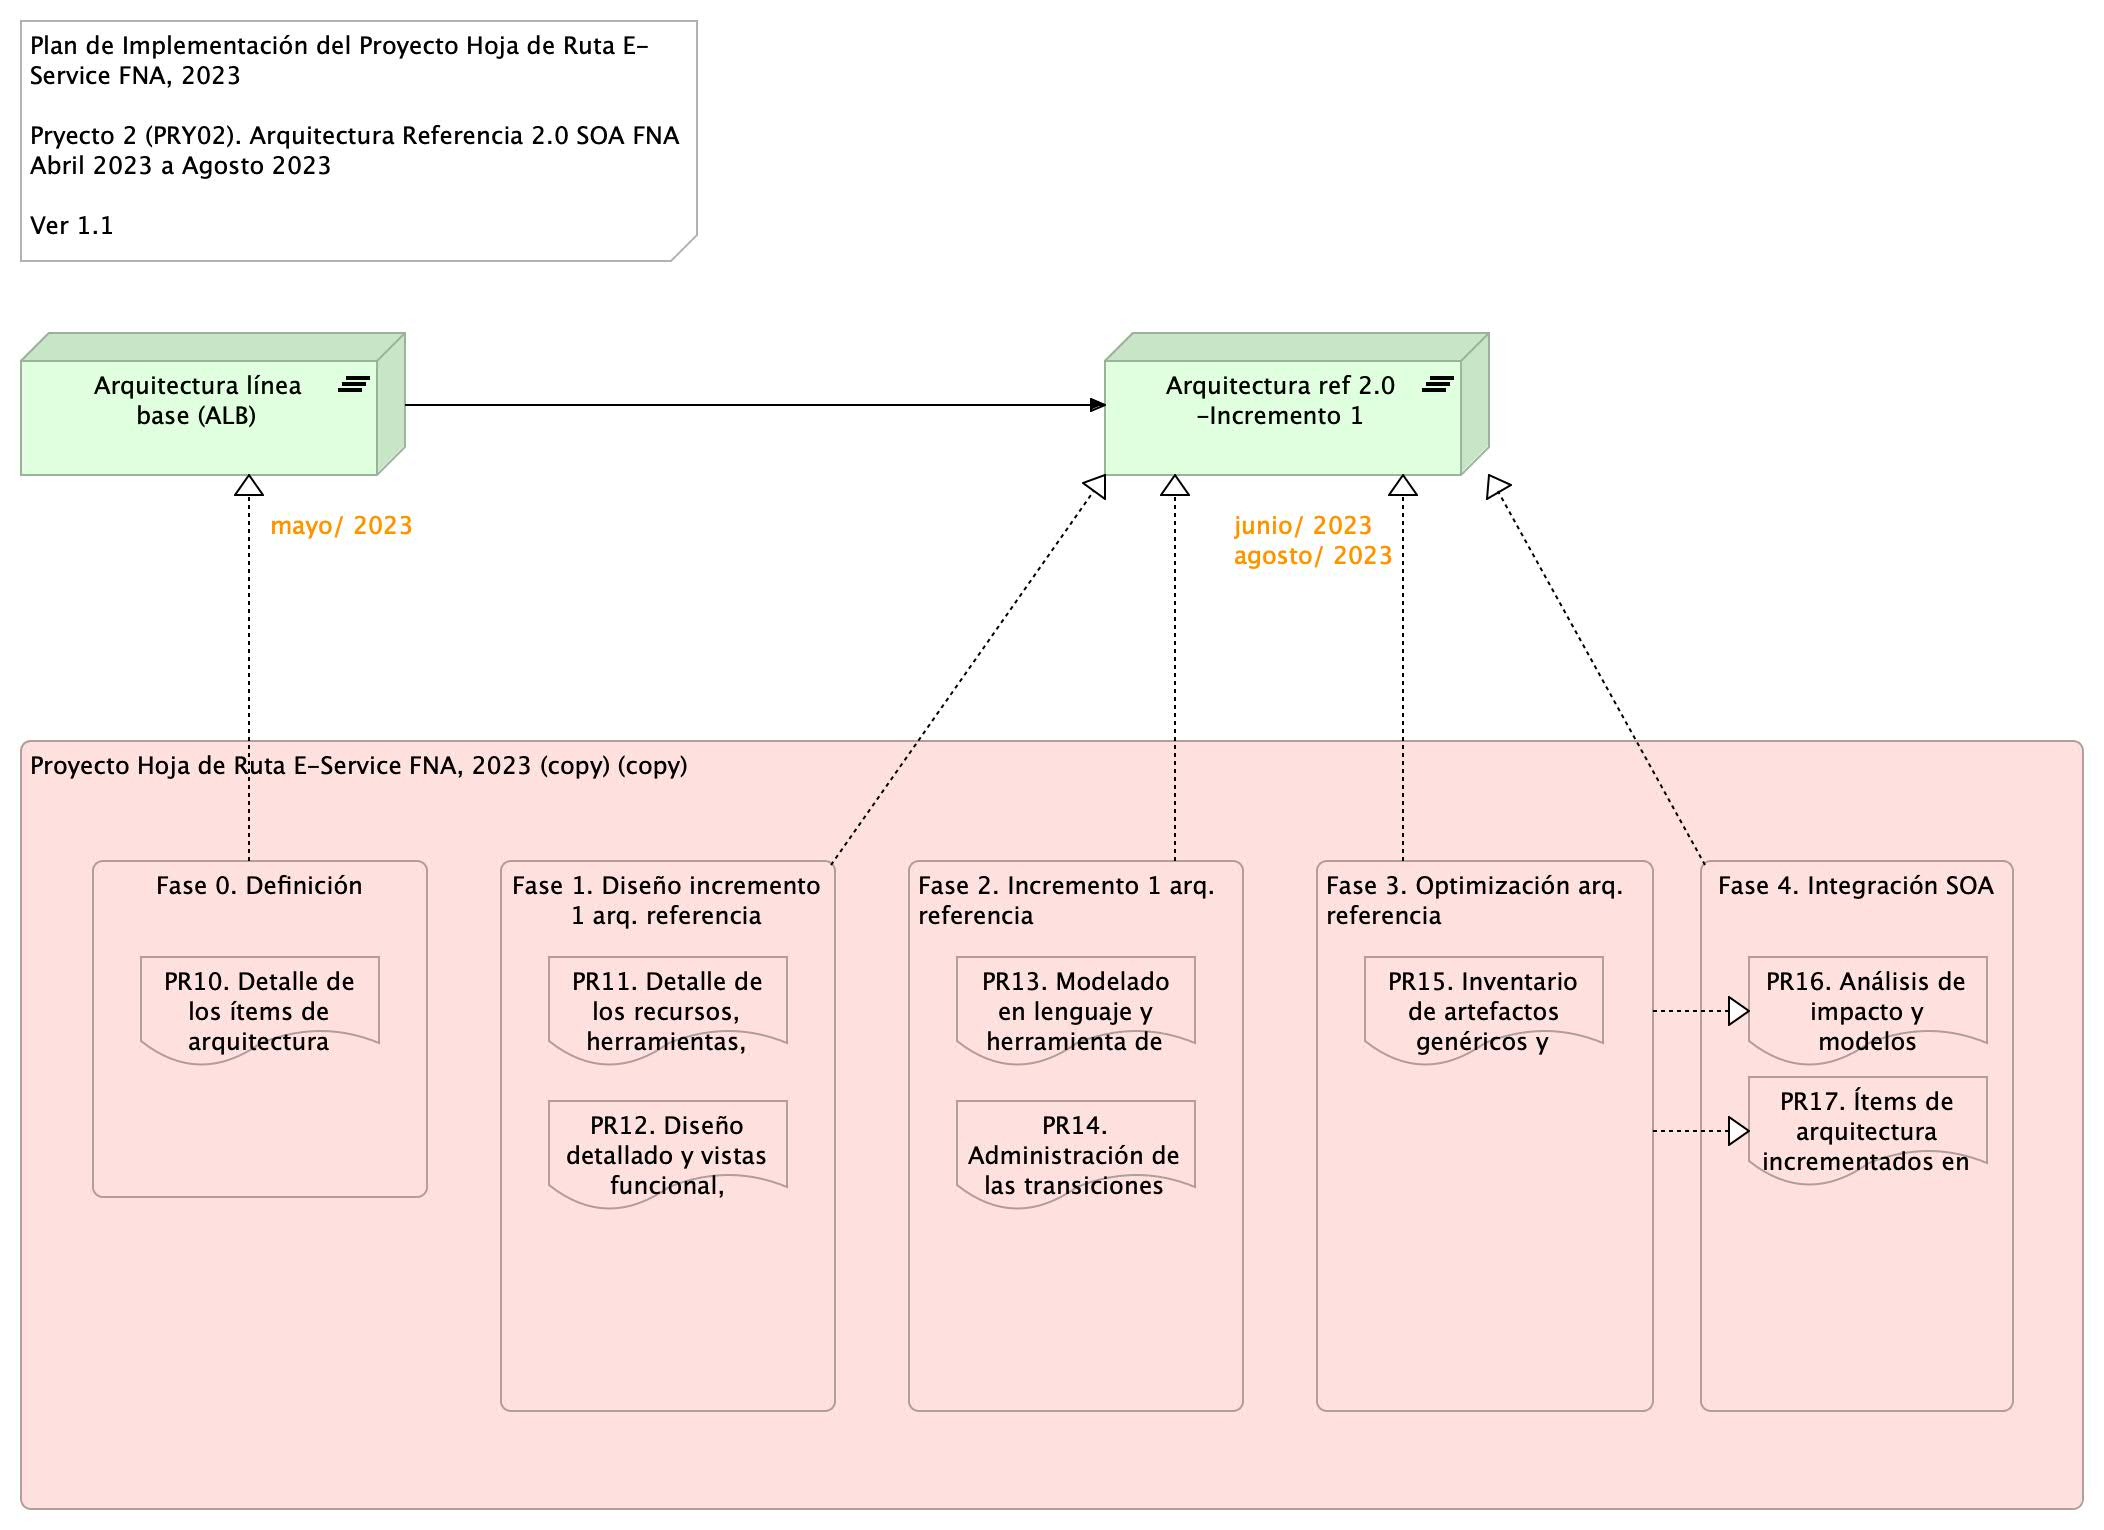
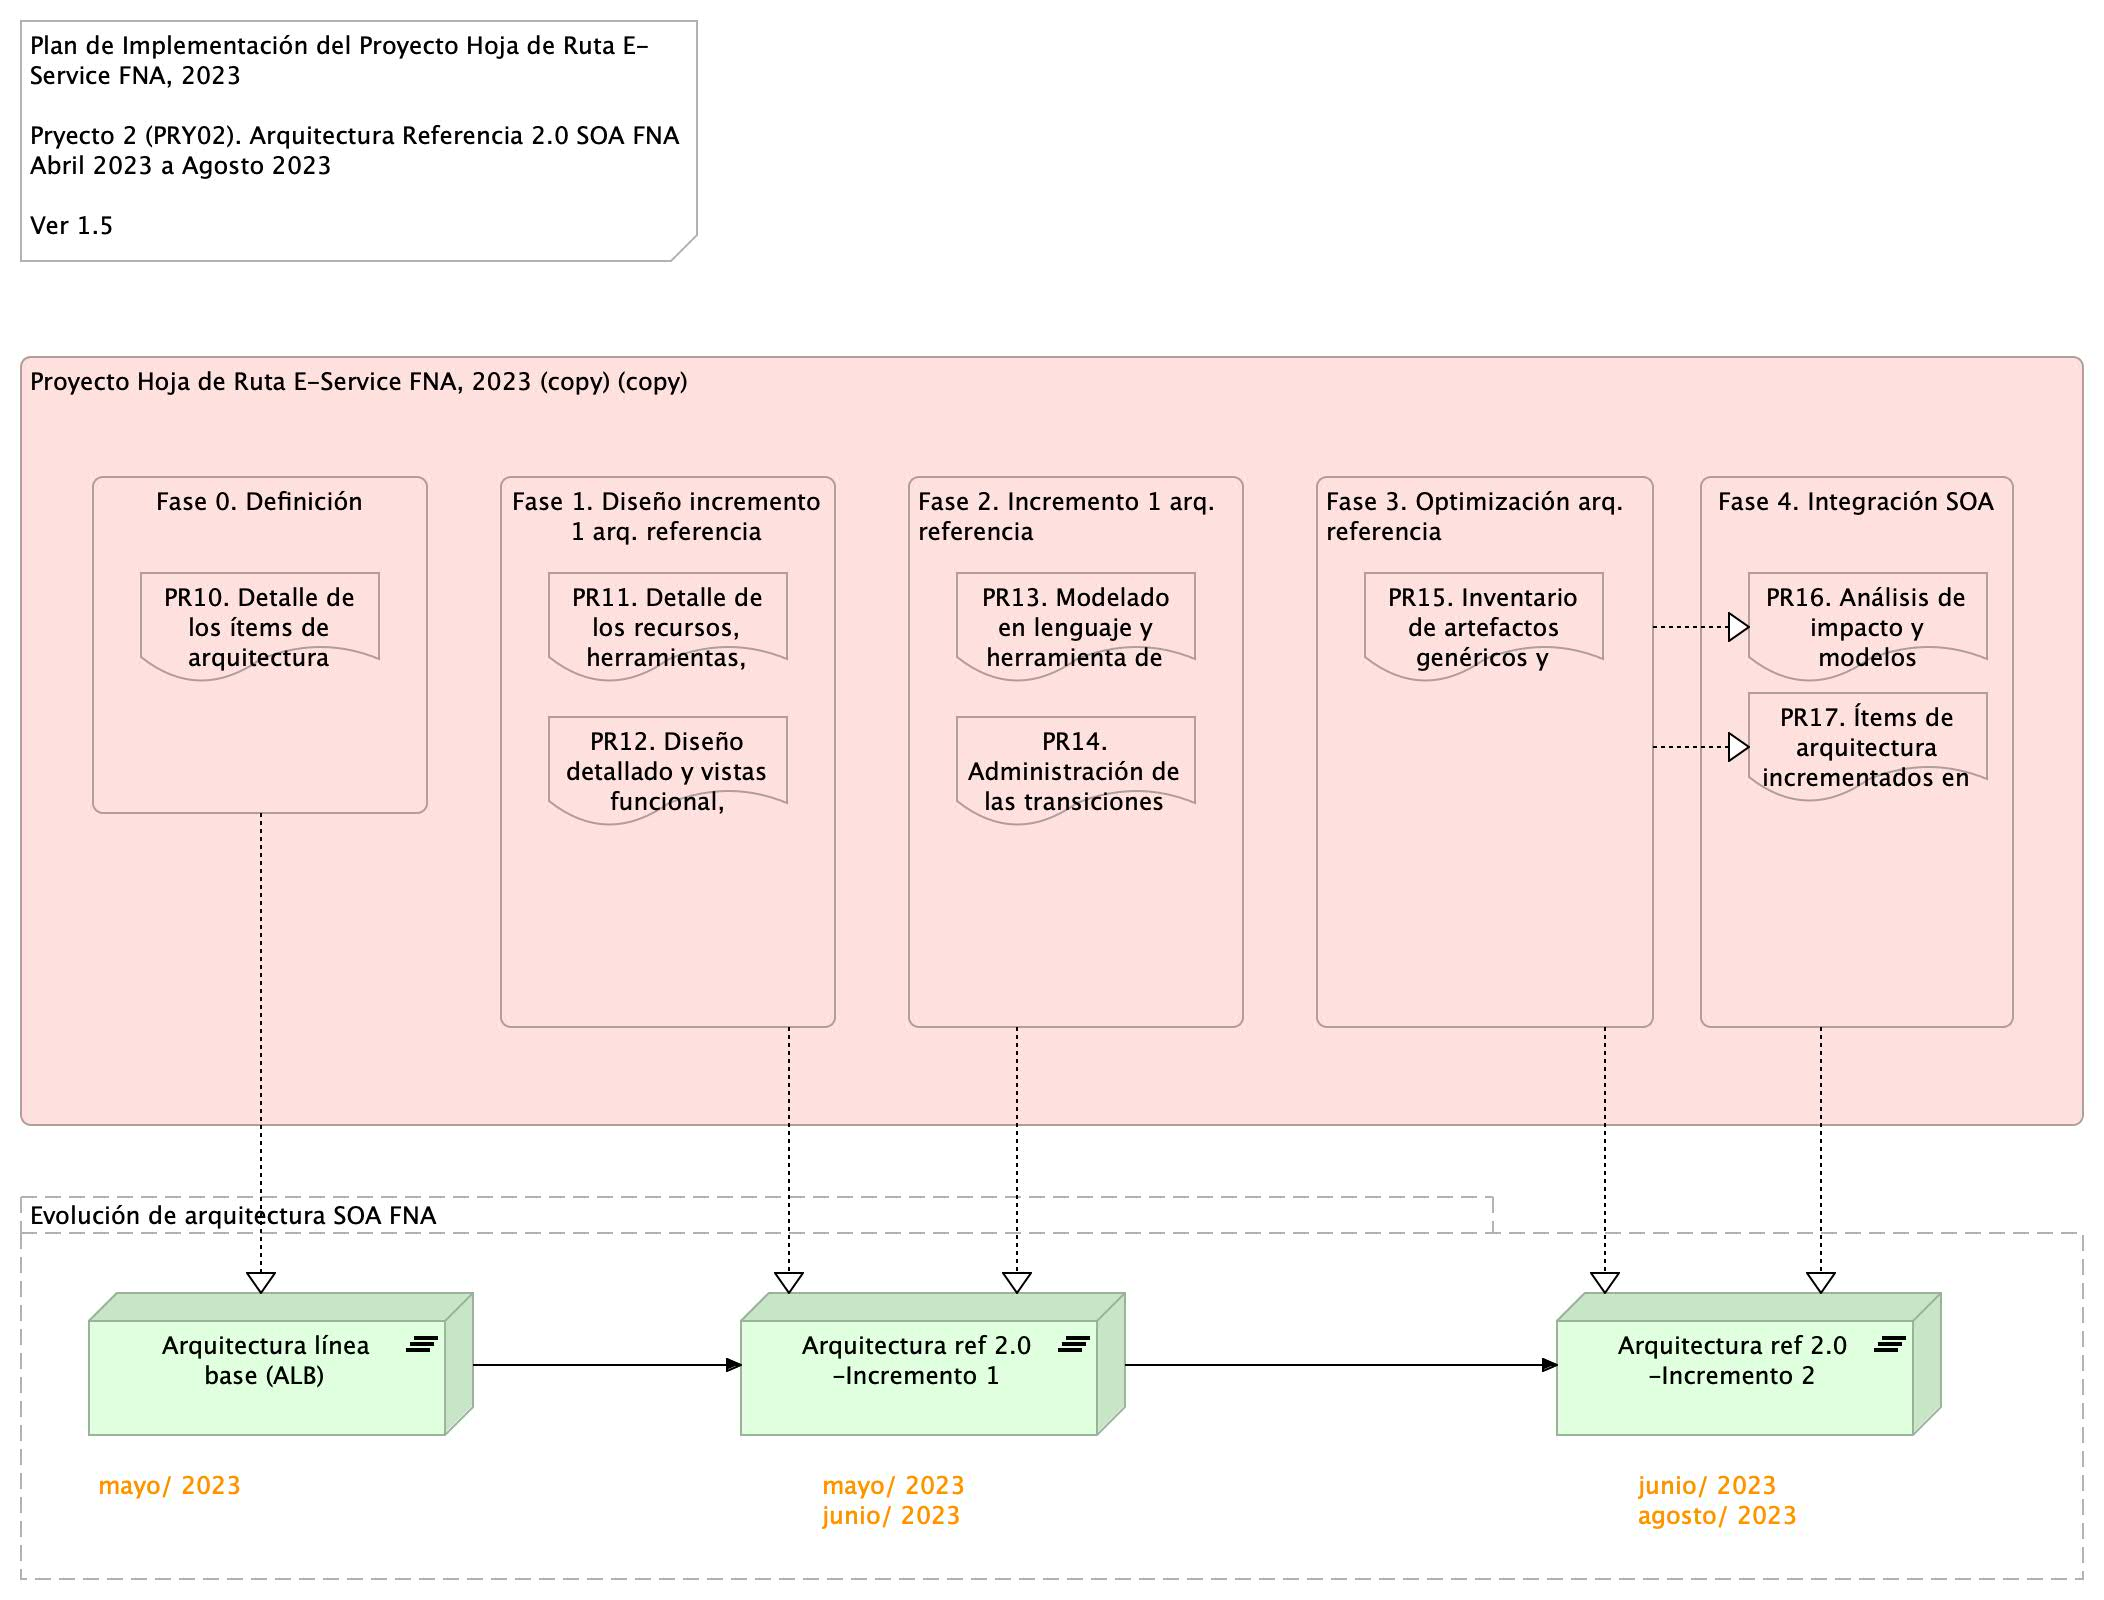
pry3

diff --git a/content/02c1c.pry estructuracion.md b/content/02c1c.pry estructuracion.md
@@ -1,0 +1,34 @@
+### PRY03. Gobierno SOA FNA: dominio de aplicaciones y servicios
+#### Objetivo
+Estructurar y detallar los proyectos de cierre de brecha de la hoja de ruta E-Service.
+<br>
+
+#### Actividades
+- Definición de solución de los proyectos de la hoja de ruta E-Service por implementar
+- Planificación de las actividades e hitos de los proyectos de la hoja de ruta E-Service
+- Alistamiento de ejecución de los proyectos de la hoja de ruta por implementar: recursos y equipo de trabajo
+- Aprobación de inicio de de los proyectos de la hoja de ruta
+
+#### Entregables
+- PR01. Documentación de estructuración y gestión de proyectos hoja de ruta E-Service por implementar
+- PR02. Aprobación de inicio de los proyectos de la hoja de ruta E-Service
+- PR03. Plan de trabajo de los proyectos de la hoja de ruta E-Service 
+- PR04. Listados de recursos, roles y personas requeriras por los los proyectos de la hoja de ruta E-Service
+
+### Plazo de Ejecución
+4 meses, iniciado a partir del mes de mayo del 2023 (ver plan de ejecución PRY03).
+
+#### Impacto / Beneficio
+- Preparativos que logren la aprobación de la ejecución de los proyectos de cierre de brecha de las debilidades de arquitectura FNA.
+
+#### Actores
+- Comité de gobierno del FNA
+- Oficina de arquitectura FNA
+- Personal FNA asociado por proyecto (infraestructura, Crédito, Datos, etc.)
+
+#### Consideraciones
+- MEGA: depósito centralizado de arquitectura del FNA
+- Depósito documental
+- Herramientas de gestión de proyectos de tecnología
+
+<br>

diff --git a/content/02c1c1.equipo.md b/content/02c1c1.equipo.md
@@ -1,0 +1,14 @@
+### Equipo Base del Proyecto
+|                                         | Trabajo              | Dedicación |
+|:----------------------------------------|:---------------------|:-----------|
+|Coordinador de proyectos principal Senior (Stefanini)|Estructuración de proyectos de la hoja de ruta E-Service|100%|
+|Coordinador de proyectos auxiliar (Stefanini)||100%|
+|Personal del FNA|Recepción y ejecución de diseños, requerimientos, e implementación, SOA, modelamiento requerimientos, procesos y servicios|*|
+|- Especialistas de aplicaciones pertenecientes al incremento de versión de la arquitectura FNA (ver Figura3. Aplicaciones de software del FNA involucrados en los incrementos de versión de la arquitectura de referencia)||
+|- Líder funcional de aplicaciones pertenecientes al incremento de versión de la arquitectura FNA||
+
+<br>
+
+(*) La dedicación y horas de participación de los recursos internos la dispone el FNA.
+
+<br>

diff --git a/content/02c1c2.plan.md b/content/02c1c2.plan.md
@@ -1,0 +1,15 @@
+## Plan de Trabajo
+Plazo de Ejecución: 4 meses, iniciado a partir del mes de abril del 2023. Equivalente en horas a 
+
+> 180 hrs/mes * 4 meses = 720 hrs / hombre proyecto.
+
+<br>
+
+Organización de trabajo: el proyecto 3 (PRY03) inicia con la fase de Levantamiento (LVT) de los proyectos por implementar de la hoja de ruta E-Service, en coordinación con las áreas de negocio y tecnología del FNA involucradas en cada proyecto. Se determinan los detalles de los elementos de la arquitectura a impactar.
+
+![](images/pry3estructuracion.jpg)
+
+[Imagen 4.]() Plan de Implementación del Proyecto Hoja de Ruta E-Service FNA, 2023. Abril 2023 a Dic 2023. Ver 1.0
+
+<br>
+

diff --git a/content/02c1b2.plan.md b/content/02c1b2.plan.md
@@ -1,7 +1,7 @@
 ## Plan de Trabajo
 Plazo de Ejecución: 5 meses, iniciado a partir del mes de abril del 2023. Equivalente en horas a 
 
-> 180 hrs/mes * 8 meses = 910 hrs / hombre proyecto.
+> 180 hrs/mes * 5 meses = 910 hrs / hombre proyecto.
 
 <br>
 

diff --git a/content/02c1a2. plan.md b/content/02c1a2. plan.md
@@ -1,7 +1,7 @@
 ## Plan de Trabajo
 Plazo de Ejecución: 5 meses, iniciado a partir del mes de abril del 2023.
 
-> 180 hrs/mes * 8 meses = 910 hrs / hombre proyecto.
+> 180 hrs/mes * 5 meses = 910 hrs / hombre proyecto.
 
 <br>
 
